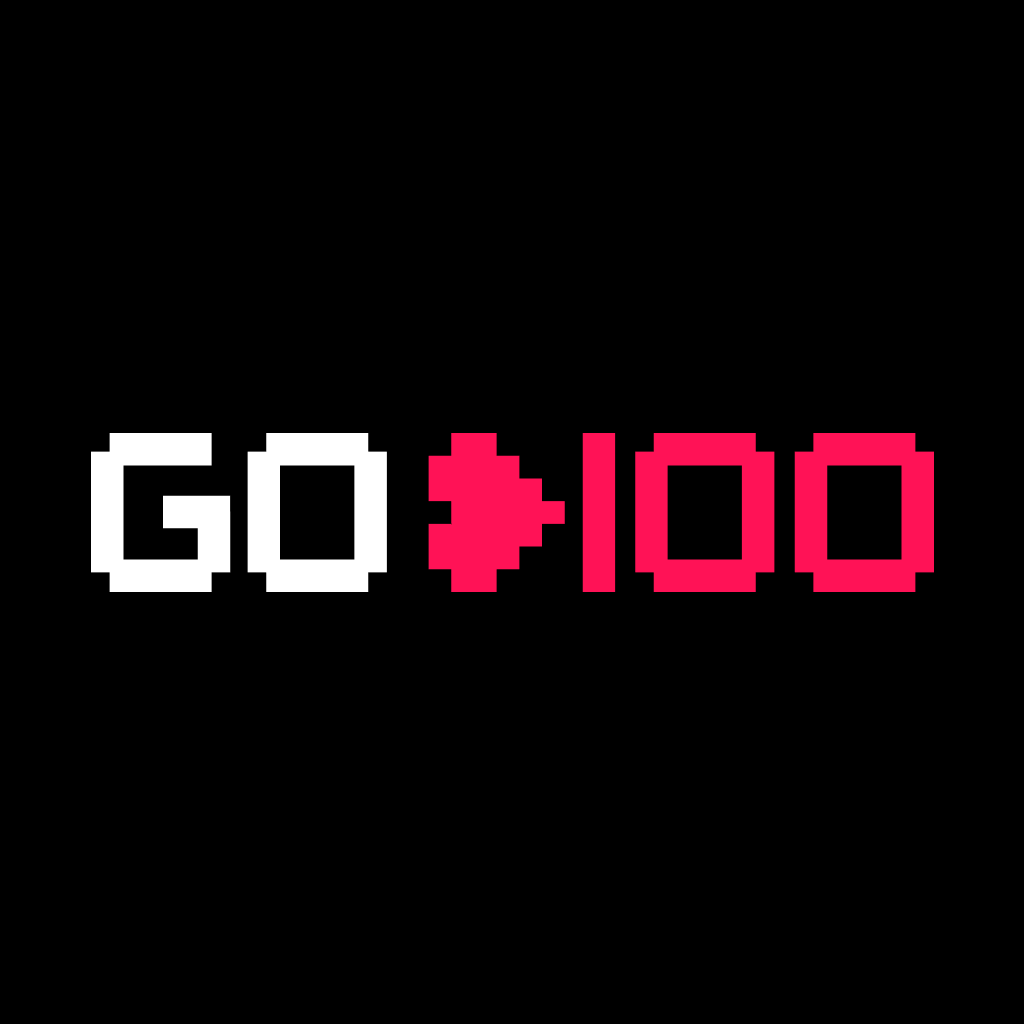
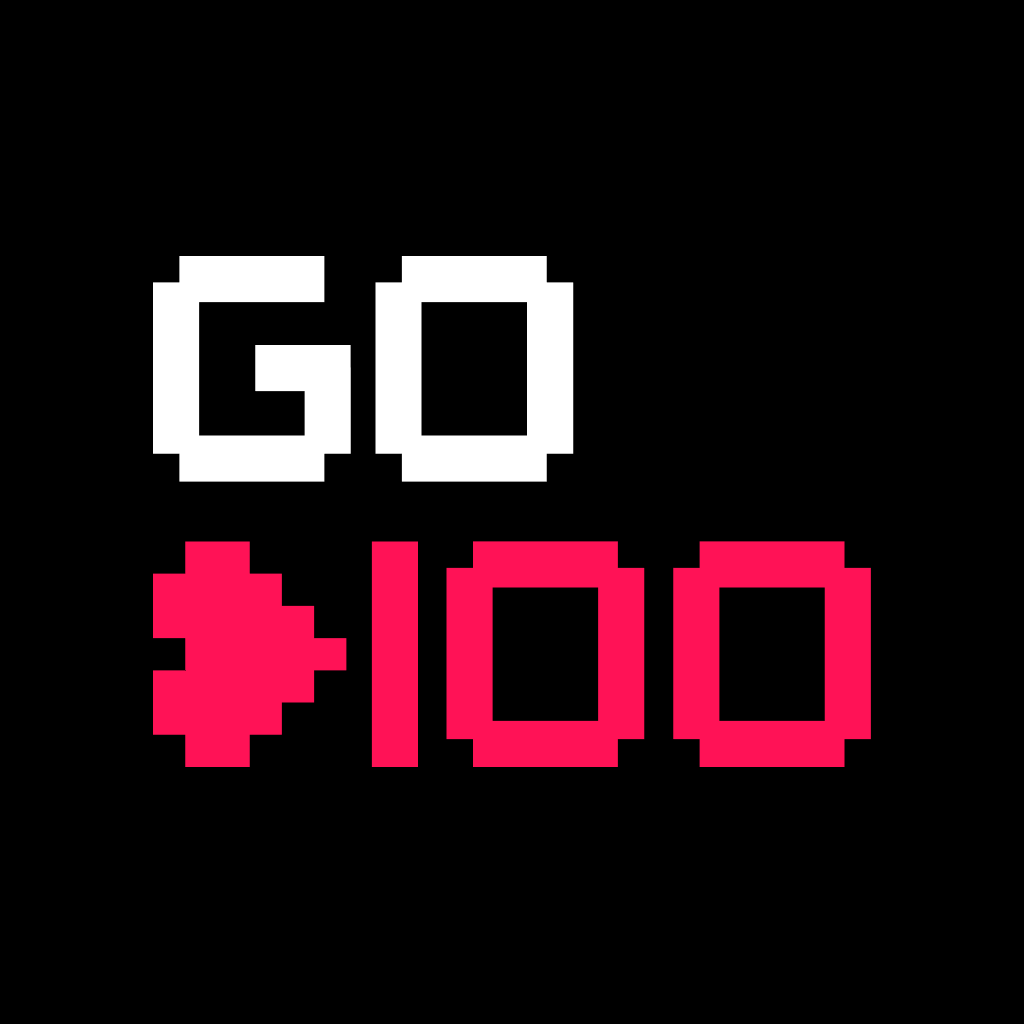
chore: meta tag og:image 수정

Changed region(s): [[0.0625, 0.25, 0.9375, 0.75]]

diff --git a/index.html b/index.html
@@ -11,8 +11,8 @@
     <meta property="og:description" content="당신의 0일 탈출, 1일 시작을 위해" />
     <meta property="og:site_name" content="G0-100" />
     <meta property="og:locale" content="ko_KR" />
-    <meta property="og:image:width" content="1200" />
-    <meta property="og:image:height" content="630" />
+    <meta property="og:image:width" content="1024" />
+    <meta property="og:image:height" content="1024" />
     <title>G0-100</title>
   </head>
   <body style="display: flex; justify-content: center">
